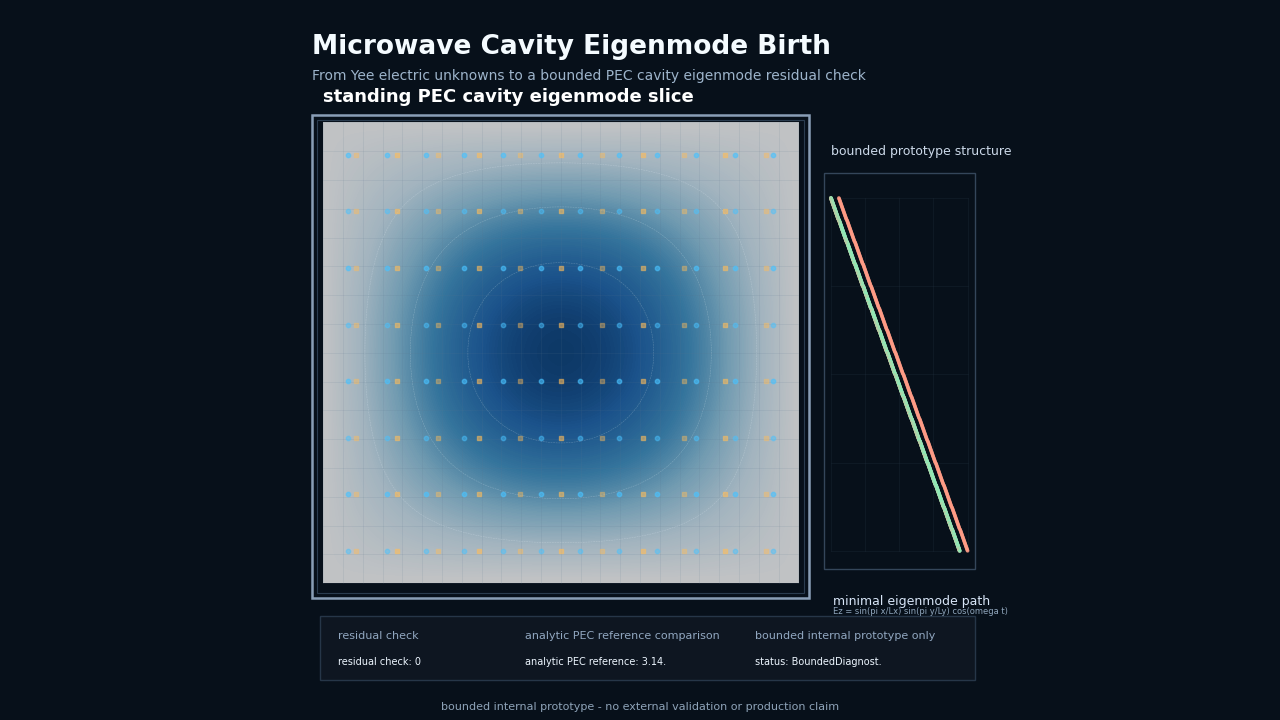
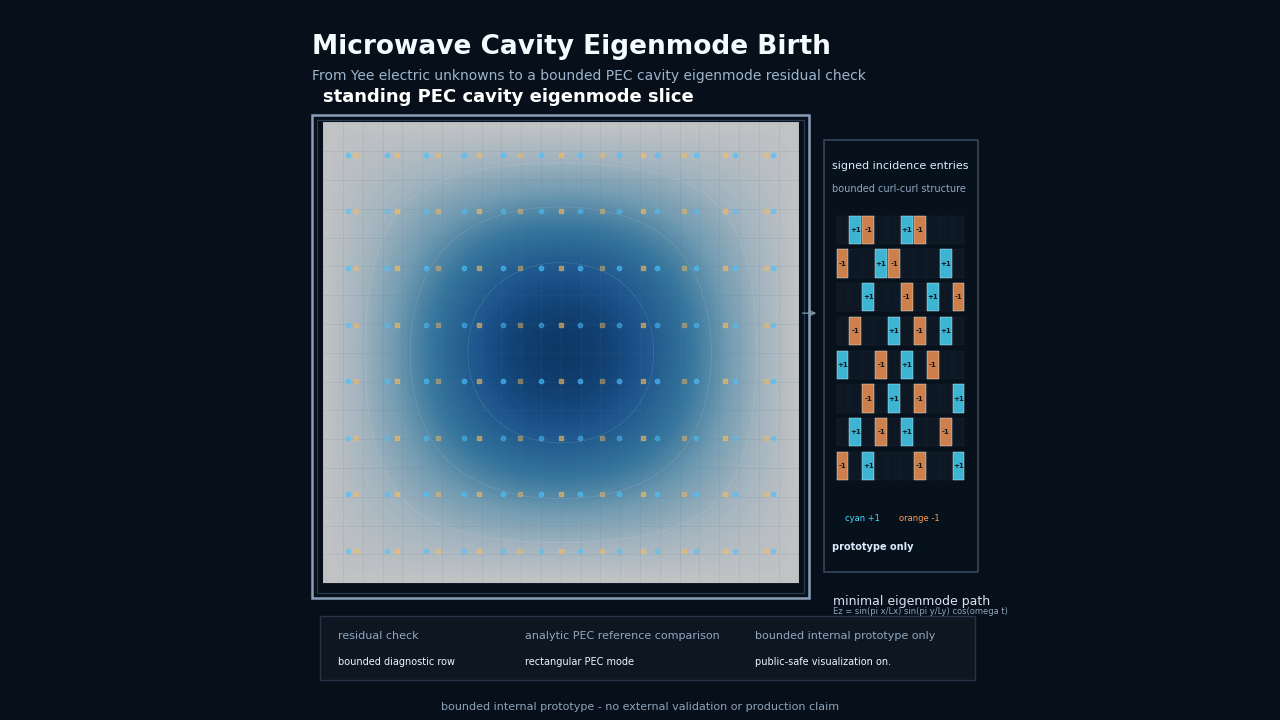
Clarify microwave cavity eigenmode birth operator panel

diff --git a/scripts/generate_microwave_cavity_eigenmode_birth.py b/scripts/generate_microwave_cavity_eigenmode_birth.py
@@ -56,9 +56,9 @@ def read_public_safe_summary(summary_csv: Path | None) -> dict[str, str | bool]:
     summary = {
         "summary_csv_supplied": False,
         "summary_csv_used": False,
-        "residual_label": "canonical residual: bounded demo row",
-        "reference_label": "analytic PEC reference: canonical rectangular mode",
-        "comparison_label": "status: public-safe visualization only",
+        "residual_label": "bounded diagnostic row",
+        "reference_label": "rectangular PEC mode",
+        "comparison_label": "public-safe visualization only",
     }
     if summary_csv is None or not summary_csv.exists():
         return summary
@@ -128,27 +128,46 @@ def smoothstep(edge0: float, edge1: float, x: float) -> float:
     return t * t * (3.0 - 2.0 * t)
 
 
-def build_sparse_pattern(nx_edges: int = 26, ny_edges: int = 16) -> tuple[np.ndarray, np.ndarray, np.ndarray]:
-    rows: list[int] = []
-    cols: list[int] = []
-    signs: list[int] = []
-    width = nx_edges + 1
-    for j in range(ny_edges):
-        for i in range(nx_edges):
-            row = j * nx_edges + i
-            bottom = j * width + i
-            right = j * width + i + 1
-            top = (j + 1) * width + i
-            left = j * width + i
-            for col, sign in ((bottom, 1), (right, 1), (top, -1), (left, -1)):
-                rows.append(row)
-                cols.append(col)
-                signs.append(sign)
-    rows_array = np.asarray(rows)
-    cols_array = np.asarray(cols)
-    signs_array = np.asarray(signs)
-    order = np.argsort(rows_array * 10_000 + cols_array)
-    return rows_array[order], cols_array[order], signs_array[order]
+def build_sparse_pattern() -> list[tuple[int, int, int]]:
+    """Return a public-safe toy signed incidence pattern for the operator panel.
+
+    The entries are intentionally small and schematic. They communicate signed
+    incidence structure without representing a production matrix assembly.
+    """
+    return [
+        (0, 1, 1),
+        (0, 2, -1),
+        (0, 5, 1),
+        (0, 6, -1),
+        (1, 0, -1),
+        (1, 3, 1),
+        (1, 4, -1),
+        (1, 8, 1),
+        (2, 2, 1),
+        (2, 5, -1),
+        (2, 7, 1),
+        (2, 9, -1),
+        (3, 1, -1),
+        (3, 4, 1),
+        (3, 6, -1),
+        (3, 8, 1),
+        (4, 0, 1),
+        (4, 3, -1),
+        (4, 5, 1),
+        (4, 7, -1),
+        (5, 2, -1),
+        (5, 4, 1),
+        (5, 6, -1),
+        (5, 9, 1),
+        (6, 1, 1),
+        (6, 3, -1),
+        (6, 5, 1),
+        (6, 8, -1),
+        (7, 0, -1),
+        (7, 2, 1),
+        (7, 6, -1),
+        (7, 9, 1),
+    ]
 
 
 def add_text(ax: plt.Axes, x: float, y: float, text: str, size: int = 11, color: str = "#d9e7ff", **kwargs) -> None:
@@ -205,23 +224,87 @@ def draw_curl_loops(ax: plt.Axes, alpha: float, phase: float) -> None:
             add_text(ax, sx, sy, sign, size=10, color=color, ha="center", alpha=alpha * (0.7 + 0.3 * pulse), zorder=8)
 
 
-def draw_sparse_panel(ax: plt.Axes, alpha: float, growth: float, rows: np.ndarray, cols: np.ndarray, signs: np.ndarray) -> None:
-    panel = plt.Rectangle((0.755, 0.21), 0.21, 0.55, fill=False, ec="#40546b", lw=1.0, alpha=0.8)
-    ax.add_patch(panel)
-    add_text(ax, 0.765, 0.79, "bounded prototype structure", size=9, color="#cbd8e8", alpha=alpha)
-    count = max(1, int(len(rows) * growth))
-    rr = rows[:count]
-    cc = cols[:count]
-    ss = signs[:count]
-    if len(rr):
-        x = 0.765 + (cc / max(cols.max(), 1)) * 0.19
-        y = 0.235 + (1 - rr / max(rows.max(), 1)) * 0.49
-        colors = np.where(ss > 0, "#82f4bd", "#ff9c86")
-        ax.scatter(x, y, s=7, c=colors, alpha=0.82 * alpha, linewidths=0, zorder=6)
-    for gx in np.linspace(0.765, 0.955, 5):
-        ax.plot([gx, gx], [0.235, 0.725], color="#263445", lw=0.4, alpha=0.45 * alpha)
-    for gy in np.linspace(0.235, 0.725, 5):
-        ax.plot([0.765, 0.955], [gy, gy], color="#263445", lw=0.4, alpha=0.45 * alpha)
+def draw_sparse_panel(ax: plt.Axes, alpha: float, growth: float, entries: list[tuple[int, int, int]]) -> None:
+    panel_x, panel_y = 0.755, 0.205
+    panel_w, panel_h = 0.215, 0.60
+    ax.add_patch(
+        plt.Rectangle(
+            (panel_x, panel_y),
+            panel_w,
+            panel_h,
+            facecolor="#08121d",
+            edgecolor="#40546b",
+            lw=1.1,
+            alpha=0.88,
+            zorder=4,
+        )
+    )
+    add_text(ax, panel_x + 0.012, panel_y + panel_h - 0.035, "signed incidence entries", size=8, color="#dcecff", alpha=alpha, zorder=8)
+    add_text(ax, panel_x + 0.012, panel_y + panel_h - 0.067, "bounded curl-curl structure", size=7, color="#91a7c0", alpha=alpha, zorder=8)
+
+    grid_x, grid_y = panel_x + 0.018, panel_y + 0.128
+    grid_w, grid_h = panel_w - 0.036, panel_h - 0.225
+    n_rows, n_cols = 8, 10
+    cell_w = grid_w / n_cols
+    cell_h = grid_h / n_rows
+
+    for row in range(n_rows):
+        for col in range(n_cols):
+            x = grid_x + col * cell_w
+            y = grid_y + (n_rows - 1 - row) * cell_h
+            ax.add_patch(
+                plt.Rectangle(
+                    (x, y),
+                    cell_w * 0.92,
+                    cell_h * 0.84,
+                    facecolor="#1a2634",
+                    edgecolor="#35475b",
+                    lw=0.35,
+                    alpha=0.34 * alpha,
+                    zorder=5,
+                )
+            )
+
+    count = max(0, int(len(entries) * growth))
+    for row, col, sign in entries[:count]:
+        x = grid_x + col * cell_w
+        y = grid_y + (n_rows - 1 - row) * cell_h
+        color = "#48dcff" if sign > 0 else "#ff9b55"
+        ax.add_patch(
+            plt.Rectangle(
+                (x, y),
+                cell_w * 0.92,
+                cell_h * 0.84,
+                facecolor=color,
+                edgecolor="#eaf8ff",
+                lw=0.35,
+                alpha=0.80 * alpha,
+                zorder=7,
+            )
+        )
+        add_text(
+            ax,
+            x + cell_w * 0.46,
+            y + cell_h * 0.42,
+            "+1" if sign > 0 else "-1",
+            size=5,
+            color="#06111a",
+            ha="center",
+            alpha=0.95 * alpha,
+            weight="bold",
+            zorder=8,
+        )
+
+    ax.annotate(
+        "",
+        xy=(panel_x - 0.006, panel_y + 0.36),
+        xytext=(0.722, panel_y + 0.36),
+        arrowprops=dict(arrowstyle="->", color="#8ea3b8", lw=1.2, alpha=0.72 * alpha),
+        zorder=8,
+    )
+    add_text(ax, panel_x + 0.030, panel_y + 0.075, "cyan +1", size=6, color="#48dcff", alpha=alpha, zorder=8)
+    add_text(ax, panel_x + 0.105, panel_y + 0.075, "orange -1", size=6, color="#ff9b55", alpha=alpha, zorder=8)
+    add_text(ax, panel_x + 0.012, panel_y + 0.035, "prototype only", size=7, color="#dcecff", alpha=alpha, weight="bold", zorder=8)
 
 
 def draw_field(ax: plt.Axes, alpha: float, phase: float) -> None:
@@ -256,9 +339,9 @@ def draw_field(ax: plt.Axes, alpha: float, phase: float) -> None:
 def draw_bottom_panel(ax: plt.Axes, summary: dict[str, str | bool], alpha: float) -> None:
     ax.add_patch(plt.Rectangle((0.055, 0.055), 0.91, 0.09, facecolor="#101823", edgecolor="#2b3c50", lw=1.0, alpha=0.86))
     labels = [
-        ("residual check", str(summary["residual_label"])),
-        ("analytic PEC reference comparison", str(summary["reference_label"])),
-        ("bounded internal prototype only", compact_words(str(summary["comparison_label"]), 24)),
+        ("residual check", str(summary["residual_label"]).replace("residual check:", "").strip()),
+        ("analytic PEC reference comparison", str(summary["reference_label"]).replace("analytic PEC reference:", "").strip()),
+        ("bounded internal prototype only", str(summary["comparison_label"]).replace("status:", "").strip()),
     ]
     xs = [0.08, 0.34, 0.66]
     for x, (head, body) in zip(xs, labels):
@@ -266,7 +349,7 @@ def draw_bottom_panel(ax: plt.Axes, summary: dict[str, str | bool], alpha: float
         add_text(ax, x, 0.080, compact_words(body, 29), size=7, color="#edf6ff", alpha=alpha)
 
 
-def render_frame(index: int, frame_dir: Path, summary: dict[str, str | bool], sparse: tuple[np.ndarray, np.ndarray, np.ndarray]) -> Path:
+def render_frame(index: int, frame_dir: Path, summary: dict[str, str | bool], sparse_entries: list[tuple[int, int, int]]) -> Path:
     t = index / (FRAME_COUNT - 1)
     phase_unknowns = smoothstep(0.00, 0.24, t) * (1.0 - 0.15 * smoothstep(0.65, 0.75, t))
     phase_loops = smoothstep(0.18, 0.36, t) * (1.0 - smoothstep(0.54, 0.64, t))
@@ -288,7 +371,7 @@ def render_frame(index: int, frame_dir: Path, summary: dict[str, str | bool], sp
     draw_grid(ax, phase_unknowns)
     draw_edge_unknowns(ax, phase_unknowns)
     draw_curl_loops(ax, phase_loops, t * 3.0)
-    draw_sparse_panel(ax, max(phase_sparse, 0.25), phase_sparse, *sparse)
+    draw_sparse_panel(ax, max(phase_sparse, 0.25), phase_sparse, sparse_entries)
     draw_bottom_panel(ax, summary, smoothstep(0.62, 0.78, t))
 
     add_text(ax, 0.045, 0.935, TITLE, size=19, color="#f4fbff", weight="bold")
@@ -376,6 +459,8 @@ def write_summary_json(output_path: Path, summary: dict[str, str | bool], gif_fr
         "claim_boundary": "bounded internal prototype visualization only; not external validation, not production readiness, not a qubit simulation",
         "mode_formula_used": MODE_FORMULA,
         "grid_size": GRID_SIZE,
+        "right_panel": "sparse matrix style signed incidence entries: cyan +1, orange -1, faint gray empty cells",
+        "right_panel_claim_boundary": "operator visualization only; not production matrix assembly, not eigensolver readiness",
         "frames": gif_frames,
         "gif_dimensions": {"width": gif_size[0], "height": gif_size[1]},
         "duration_seconds": gif_frames / FPS,
@@ -408,8 +493,8 @@ def main() -> None:
         old_frame.unlink()
 
     summary = read_public_safe_summary(args.summary_csv)
-    sparse = build_sparse_pattern()
-    frame_paths = [render_frame(i, frame_dir, summary, sparse) for i in range(FRAME_COUNT)]
+    sparse_entries = build_sparse_pattern()
+    frame_paths = [render_frame(i, frame_dir, summary, sparse_entries) for i in range(FRAME_COUNT)]
 
     gif_path = output_dir / "microwave_cavity_eigenmode_birth.gif"
     poster_path = output_dir / "microwave_cavity_eigenmode_birth_poster.png"

diff --git a/assets/asset_manifest.md b/assets/asset_manifest.md
@@ -285,7 +285,7 @@
 
 - Asset type: animated GIF
 - Creation method: deterministic Python numerical visualization
-- Rendered quantities or concepts: Yee electric unknowns; oriented curl incidence; bounded curl-curl structure; standing PEC cavity eigenmode slice; residual and analytical reference status.
+- Rendered quantities or concepts: Yee electric unknowns; oriented curl incidence; sparse matrix style signed incidence entries; bounded curl-curl structure marked as prototype only; standing PEC cavity eigenmode slice; residual and analytical reference status.
 - External source images: none
 - Screenshots: none
 - AI image generation: none
@@ -299,7 +299,7 @@
 
 - Asset type: static PNG poster
 - Creation method: deterministic Python numerical visualization
-- Rendered quantities or concepts: Yee electric unknowns; oriented curl incidence; bounded curl-curl structure; standing PEC cavity eigenmode slice; residual and analytical reference status.
+- Rendered quantities or concepts: Yee electric unknowns; oriented curl incidence; sparse matrix style signed incidence entries; bounded curl-curl structure marked as prototype only; standing PEC cavity eigenmode slice; residual and analytical reference status.
 - External source images: none
 - Screenshots: none
 - AI image generation: none
@@ -313,7 +313,7 @@
 
 - Asset type: JSON summary
 - Creation method: deterministic Python numerical visualization
-- Rendered quantities or concepts: Yee electric unknowns; oriented curl incidence; bounded curl-curl structure; standing PEC cavity eigenmode slice; residual and analytical reference status.
+- Rendered quantities or concepts: Yee electric unknowns; oriented curl incidence; sparse matrix style signed incidence entries; bounded curl-curl structure marked as prototype only; standing PEC cavity eigenmode slice; residual and analytical reference status.
 - External source images: none
 - Screenshots: none
 - AI image generation: none

diff --git a/docs/microwave_cavity_eigenmode_birth_provenance.md b/docs/microwave_cavity_eigenmode_birth_provenance.md
@@ -7,9 +7,11 @@ The animation uses a rectangular PEC cavity surrogate and visualizes:
 
 1. Yee electric unknowns.
 2. Oriented curl incidence.
-3. Bounded curl-curl structure.
-4. Standing eigenmode field slice.
-5. Residual and analytical reference comparison panel.
+3. Sparse matrix style signed incidence entries with cyan `+1` cells,
+   orange `-1` cells, and faint gray empty cells.
+4. Bounded curl-curl structure, marked as prototype only.
+5. Standing eigenmode field slice.
+6. Residual and analytical reference comparison panel.
 
 The generator can optionally consume public-safe summary values supplied at
 generation time, read only, for the residual and reference status labels. It
